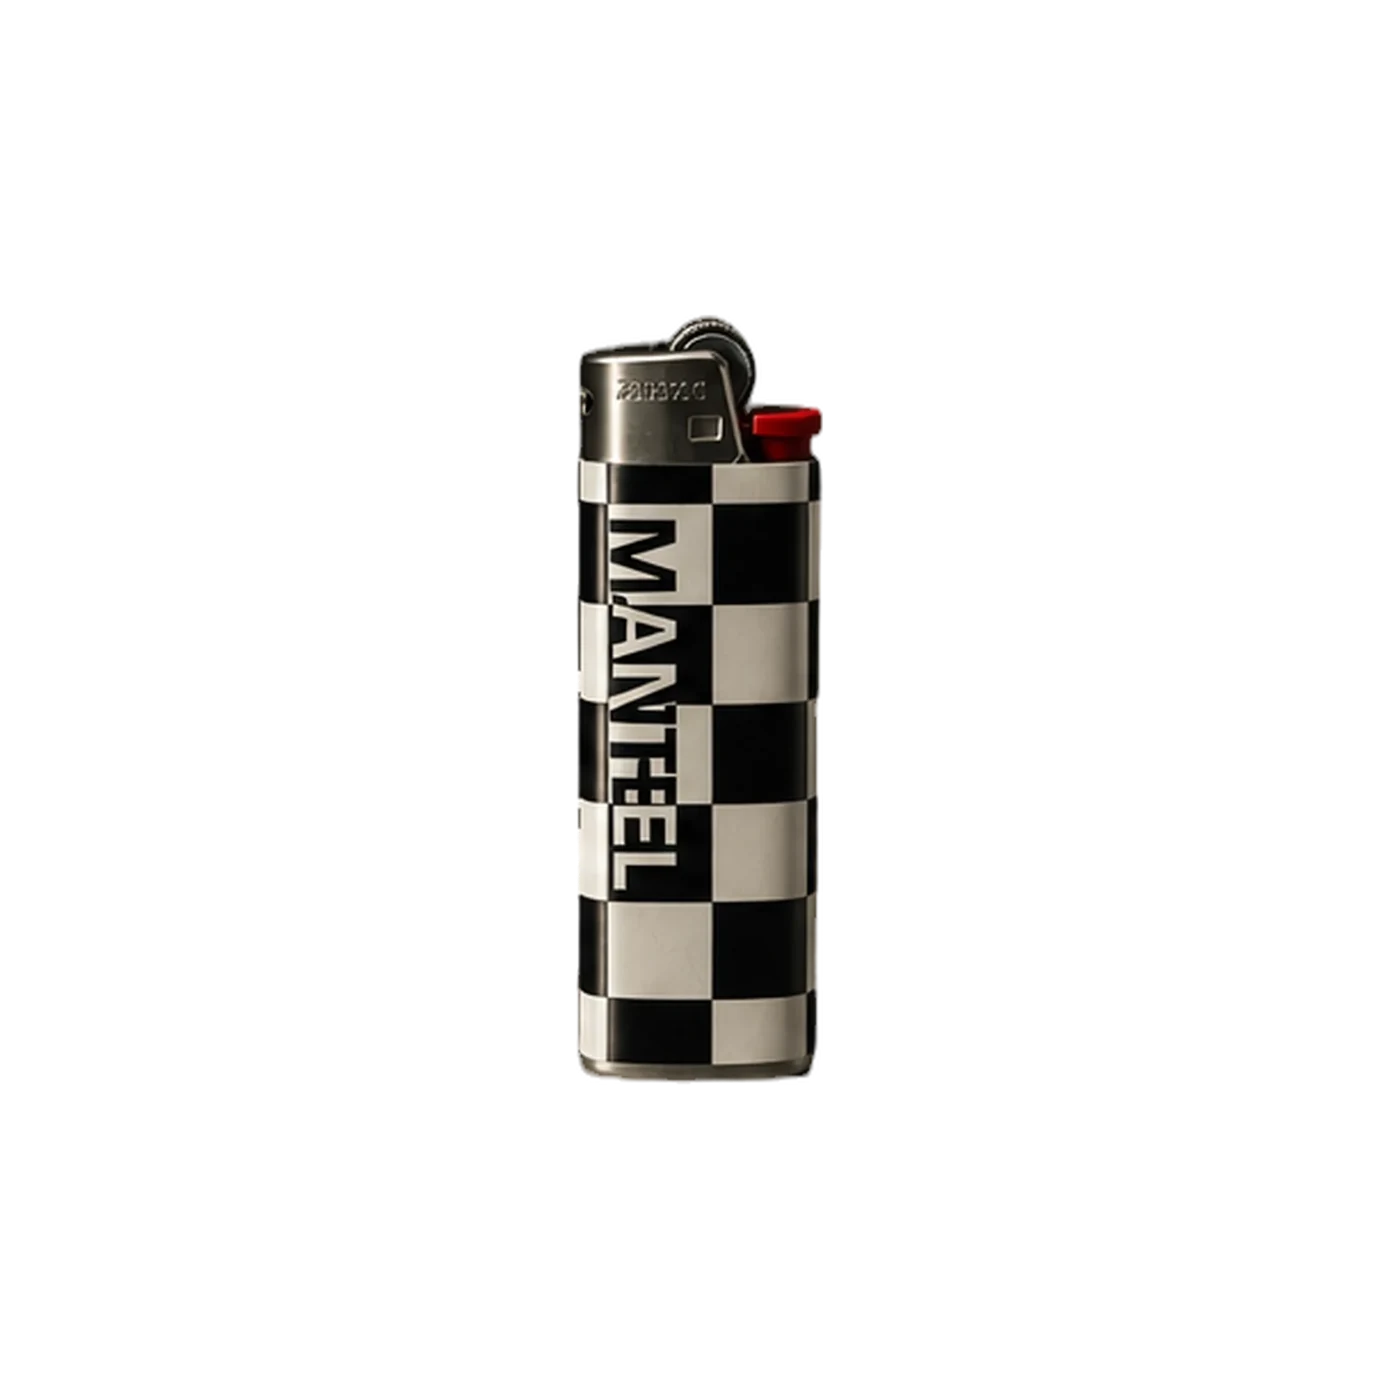
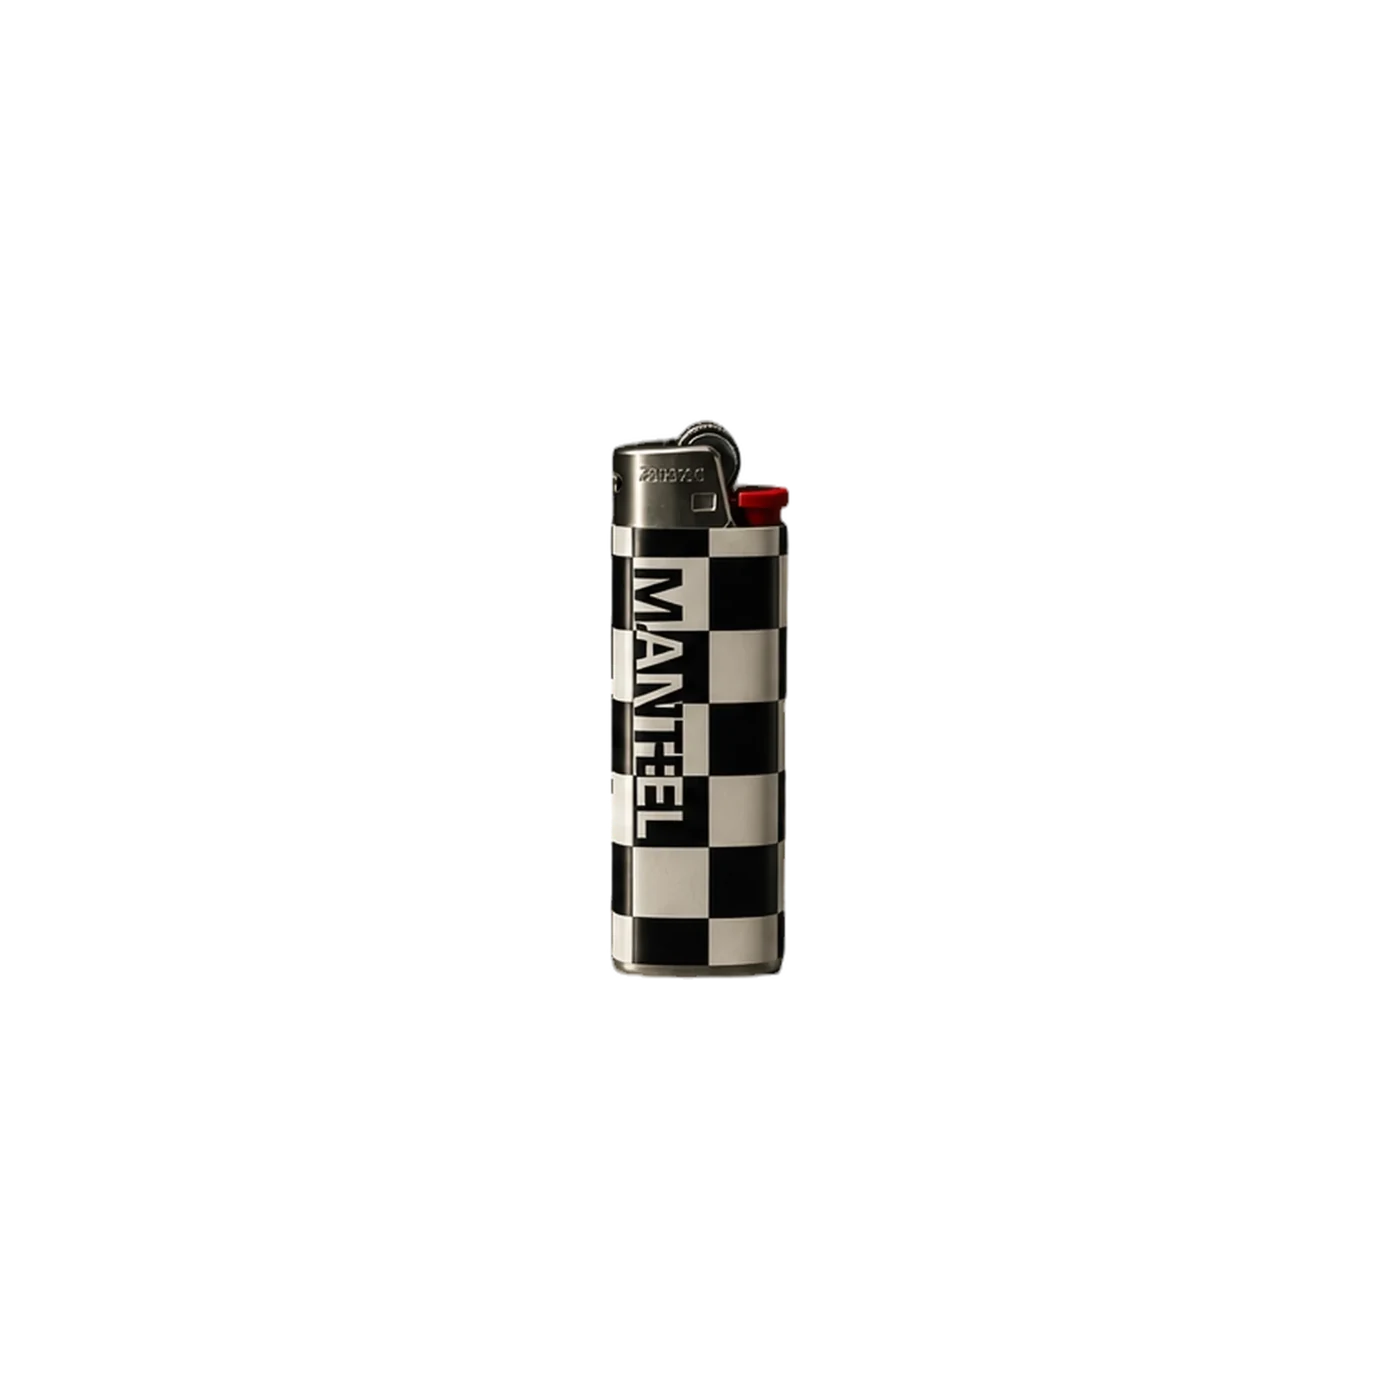
Scale each product's frame fill to its real size, not a uniform ratio
Equal fill for every product (previous commit, 55% across the board)
made a pocket lighter and a canvas tote read as the same size on the
shelf — client caught it: it should be the opposite of equal, a small
object should look smaller than a big one, the way they actually sit on
a counter. Re-padded each product to a fill chosen from its approximate
real size (tote 58%, candle sticks 50%, candles 45%, match sticks 42%,
lighters 40%), floored well above the true linear ratio so the smallest
objects stay legible instead of shrinking to a speck.

Claude-Session: https://claude.ai/code/session_01YNooiFC1k2Jrv3Fm1HcV4i

Changed region(s): [[0.3993, 0.215, 0.6143, 0.7986]]

diff --git a/src/app/content/retail.ts b/src/app/content/retail.ts
@@ -91,17 +91,32 @@ export type CartLine = {
  * objects reads better than one with a drawing on it.
  *
  * EVERY FILE HERE IS A CUT-OUT ON TRANSPARENT PNG, trimmed to the object and
- * re-centred on one square canvas at a fixed margin. Both halves of that matter
- * and both are easy to get wrong:
+ * re-centred on one square canvas. Both of these matter and both are easy to
+ * get wrong:
  *
  *   transparent   the cards carry no tone block any more (see margiela.css).
  *                 An image with its own background paints a rectangle onto the
  *                 page, which is what the shelf looked like before.
- *   same margin   --object-pad frames every card identically, so a product
- *                 padded tighter in its own file simply reads larger on the
- *                 shelf. The object spans ~55% of its canvas in all of these —
- *                 the airier, more generous margin of the Margiela reference
- *                 this shelf is styled after, not a snug product-photo crop.
+ *   real scale    every canvas is the same 1400x1400, but the object's fill
+ *                 of that canvas is NOT the same across products — it is
+ *                 chosen per product from its approximate real size, so a
+ *                 lighter reads smaller on the shelf than the tote it sits
+ *                 next to, the way it does on a real counter. Equal fill for
+ *                 every product (tried first) made a pocket lighter and a
+ *                 canvas tote read as the same size, which was the wrong
+ *                 fix — airier margins were the ask, not equal ones:
+ *
+ *                   tote            58%   (~38cm, the largest object here)
+ *                   candle sticks   50%   (~25cm, tall but slender)
+ *                   candles (tin)   45%   (~7.5cm, a squat tin)
+ *                   match sticks    42%   (~8cm box)
+ *                   lighters        40%   (~8cm, the smallest)
+ *
+ *                 Floored around 40% rather than scaled all the way down
+ *                 linearly — a lighter at its true fraction of a tote's size
+ *                 would be a speck, illegible on the shelf rather than
+ *                 "smaller." A new product's fill should slot into this
+ *                 table by its own real size, not default to 55%.
  *
  * A replacement has to meet both, or it will stand out from the rest.
  *
